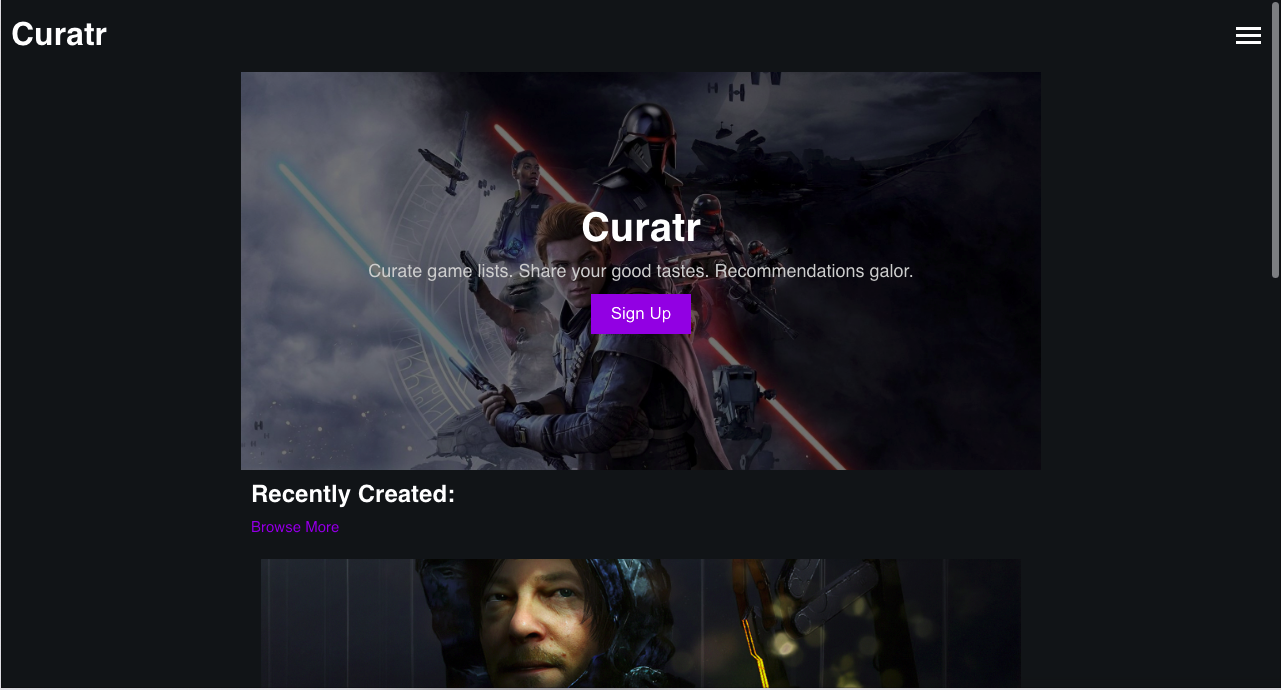
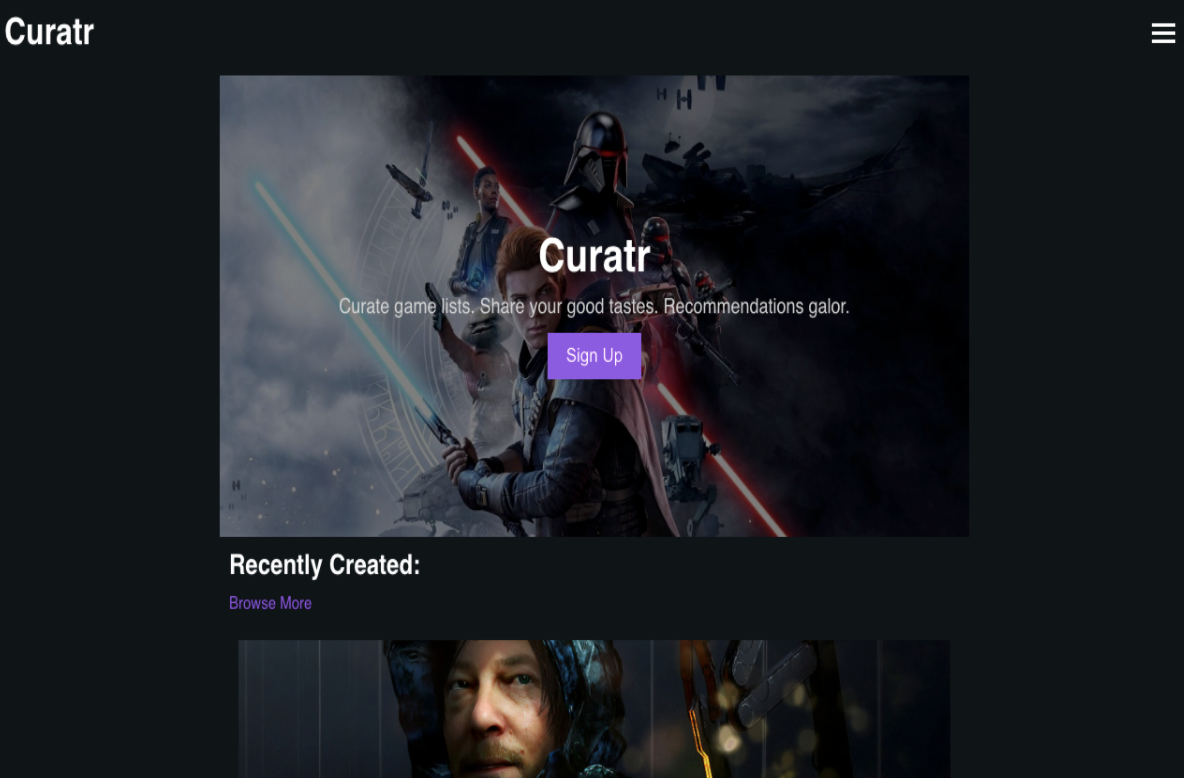
finished contact and music component

diff --git a/src/Components/Portfolio/Portfolio.js b/src/Components/Portfolio/Portfolio.js
@@ -1,13 +1,20 @@
 import React from 'react';
+import { Link } from 'react-router-dom';
 import './Portfolio.css'
-import spaceman from '../../images/Spaceman.png'
+import spaceman from '../../images/Spaceman-1.png'
 import curatr from '../../images/Curatr-1.png'
 
 const Portfolio = () => {
     return (
 			<div>
 				<h2 className='portfolio-title'>PROJECT #1</h2>
-				<img className='spaceman-image' src={spaceman}></img>
+				<img
+					className='spaceman-image'
+					// style={{
+					// 	border: '50px solid black',
+					// 	borderWidth: '30px',
+					// }}
+					src={spaceman}></img>
 				<h4 className='project-title-1'>"S P A C E M A N"</h4>
 				<p className='project-description'>
 					Complex game using Vanilla Javascript, CSS & HTML
@@ -27,28 +34,43 @@ const Portfolio = () => {
 					CODE
 				</a>
 				<h2 className='portfolio-title'>PROJECT #2</h2>
-				<img className='curatr-image' src={curatr}></img>
+				<img
+					className='curatr-image'
+					src={curatr}
+					style={{
+						border: '50px solid black',
+						borderWidth: '30px',
+					}}></img>
 				<h4 className='project-title-1'>"C U R A T R"</h4>
 				<p className='project-description'>
-					Fullstack MERN react app using mongoDB to build an api
+					Fullstack MERN react app using mongoDB
 				</p>
 				<a
 					className='project-link'
 					href='https://curatrp3ga.herokuapp.com/'
+					target='_blank'
 					style={{ color: 'lightgray', textDecoration: 'none' }}>
 					DEMO
 				</a>
 				<a
 					className='code-link'
 					href='https://github.com/Davinki-Coders/Project-3-fe'
-					style={{ color: 'lightgray', textDecoration: 'none' }}>
-					FE CODE
+					target='_blank'
+					style={{
+						color: 'lightgray',
+						textDecoration: 'none',
+					}}>
+					CODE
 				</a>
 				<a
 					className='code-link'
 					href='https://github.com/Davinki-Coders/Project-3-be'
-					style={{ color: 'lightgray', textDecoration: 'none' }}>
-					BE CODE
+					target='_blank'
+					style={{
+						color: 'lightgray',
+						textDecoration: 'none',
+					}}>
+					CODE
 				</a>
 			</div>
 		);

diff --git a/src/Components/About/About.js b/src/Components/About/About.js
@@ -3,29 +3,18 @@ import './About.css';
 const About = () => {
     return (
 			<div>
-				<h1 className="about-text">ABOUT ME</h1>
-				{/* <p>
-					Rashawn Isaac Gordon aka Rigga Mortis or Rig is a software engineer and musician, pursuing his passion for
-					technology and creativity, solving problems and bringing joy to others through
-					building purposeful and meaningful creations. He achieves his goals by
-					leveraging his decision making and communication combined with a strong
-					desire to experience those breakthrough moments.
+				<h2 className='about-text'>ABOUT ME</h2>
+
+				<p className='about-paragraph'>
+					{' '}
+					I'm a fullstack developer and music artist, based in New York. My
+					artist name is Rigga Mortis, born as Rashawn Isaac Gordon.{' '}
 				</p>
-				<p>'On my spare time, I enjoy music, programming, sketching, reading, gaming, travel,
-				and sports. These interests have assisted me in harnesting the values
-				and skills necessary to thrive within a team and social environment.' - Rashawn</p> */}
-				{/* <p className="about-paragraph">Lorem ipsum dolor sit amet, consectetur adipiscing elit, sed do eiusmod
-				tempor incididunt ut labore et dolore magna aliqua. Fringilla ut morbi
-				tincidunt augue interdum. Scelerisque varius morbi enim nunc faucibus a
-				pellentesque sit. Morbi tempus iaculis urna id. Fermentum et
-				sollicitudin ac orci phasellus egestas tellus. In fermentum et
-				sollicitudin ac orci phasellus egestas tellus. Ipsum nunc aliquet
-				bibendum enim facilisis gravida. Eleifend mi in nulla posuere
-				sollicitudin. Quis risus sed vulputate odio.</p> */}
-                
-                <p className="about-paragraph"> I'm a fullstack developer and music artist, based in New York. My artist name is Rigga Mortis, born as Rashawn Isaac Gordon. </p>
-                
-				{/* <h2 className="about-text">SKILLS</h2> */}
+
+				<p className='about-paragraph'>
+					{' '}
+					SOFAS RECORDS is my media company.{' '}
+				</p>
 			</div>
 		);
 };

diff --git a/src/Components/Header/Header.js b/src/Components/Header/Header.js
@@ -2,16 +2,17 @@ import React from 'react';
 import { Link } from 'react-router-dom';
 import './Header.css';
 import logo from '../../images/Rigga-Mortis-Logo.png';
+import logo2 from '../../images/SOFAS-LOGO-1.png';
 
 
 
 const Header = () => {
     return (
 			<div>
-				<img className='logo' src={logo}></img>
+				<img className='logo2' src={logo2}></img>
 				<ul className='header-items'>
 					<li>
-						<Link to='/' style={{ color: 'lightgray', textDecoration: 'none' }}>
+						<Link to='/' style={{ color: '#ff6542', textDecoration: 'none' }}>
 							HOME
 						</Link>
 					</li>
@@ -25,21 +26,21 @@ const Header = () => {
 					<li>
 						<Link
 							to='/portfolio'
-							style={{ color: 'lightgray', textDecoration: 'none' }}>
+							style={{ color: '#ff6542', textDecoration: 'none' }}>
 							PORTFOLIO
 						</Link>
 					</li>
 					<li>
 						<Link
 							to='/music'
-							style={{ color: 'lightgray', textDecoration: 'none' }}>
+							style={{ color: '#ff6542', textDecoration: 'none' }}>
 							MUSIC
 						</Link>
 					</li>
 					<li>
 						<Link
 							to='/contact'
-							style={{ color: 'lightgray', textDecoration: 'none' }}>
+							style={{ color: '#ff6542', textDecoration: 'none' }}>
 							CONTACT
 						</Link>
 					</li>

diff --git a/src/Components/Contact/Contact.js b/src/Components/Contact/Contact.js
@@ -1,13 +1,41 @@
 import React from 'react';
+import './Contact.css';
+import { AiFillGithub, AiFillLinkedin, AiOutlineFile } from 'react-icons/ai';
+
 
 const Contact = () => {
     return (
-        <div>
-           LinkedIn
-           Github
-           Resume links go here
-        </div>
-    );
+			<div className='contact-links'>
+				<h2 className='contact-title'>C O N T A C T</h2>
+				<p className='contact-paragraph'>
+					Looking forward to speaking with you
+				</p>
+				<AiFillLinkedin className='linkedin-logo' />
+				<a
+					className='linkedin-link'
+					href='https://www.linkedin.com/in/rashawn-isaac-gordon/'
+					style={{ color: 'black' }}
+					target='_blank'>
+					LINKEDIN
+				</a>
+				<AiFillGithub className='github-logo' />
+				<a
+					className='github-link'
+					href='https://github.com/RGordon93'
+					style={{ color: 'black' }}
+					target='_blank'>
+					GITHUB
+				</a>
+				<AiOutlineFile className='resume-logo' />
+				<a
+					className='resume-link'
+					href=''
+					style={{ color: 'black' }}
+					target='_blank'>
+					RESUME
+				</a>
+			</div>
+		);
 };
 
 export default Contact;

diff --git a/src/App.js b/src/App.js
@@ -3,6 +3,7 @@ import React from 'react';
 import Contact from './Components/Contact/Contact';
 import About from './Components/About/About';
 import Home from './Components/Home/Home';
+import Music from './Components/Music/Music';
 import Header from './Components/Header/Header'
 import { BrowserRouter as Router, Route, Link } from 'react-router-dom'
 import Portfolio from './Components/Portfolio/Portfolio'
@@ -15,6 +16,7 @@ function App() {
 				<Route path='/' exact component={Home} />
 				<Route path='/about' exact component={About} />
 				<Route path='/portfolio' exact component={Portfolio} />
+				<Route path='/music' exact component={Music} />
 				<Route path='/contact' exact component={Contact} />
 			</div>
 		</Router>

diff --git a/src/Components/Contact/Contact.css b/src/Components/Contact/Contact.css
@@ -1,0 +1,30 @@
+@import url('https://fonts.googleapis.com/css2?family=Roboto:wght@700&display=swap');
+
+@import url('https://fonts.googleapis.com/css2?family=Permanent+Marker&display=swap');
+
+.contact-links {
+    text-align: center;
+	display: block;
+	justify-content: center;
+	align-items: center;
+    margin: auto;
+    padding-top: 100px;
+}
+.github-logo {
+    height: 75px;
+    width: 75px;
+}
+.linkedin-logo {
+    height: 75px;
+    width: 75px;
+}
+.resume-logo {
+    height: 75px;
+    width: 75px;
+}
+.contact-title, .contact-paragraph {
+    font-family: 'Roboto';
+}
+.github-link, .linkedin-link, .resume-link {
+ font-family: 'Permanent Marker';
+}

diff --git a/src/Components/Header/Header.css b/src/Components/Header/Header.css
@@ -6,6 +6,8 @@
 
 @import url('https://fonts.googleapis.com/css2?family=Roboto:wght@700&display=swap');
 
+@import url('https://fonts.googleapis.com/css2?family=Permanent+Marker&display=swap');
+
 
 
 .header-items {
@@ -22,12 +24,21 @@
   margin-left: 10px;
    /* font-family: 'UnifrakturCook'; */
    /* font-family: 'Sedgwick Ave Display'; */
-   font-family: 'Roboto';
+   font-family: 'Permanent Marker';
+   /* font-family: 'Roboto'; */
    font-weight: bold;
 }
 .logo {
     width: 175px;
     height: 100px;
-    /* padding-top: -200px; */
+   
+
+}
+.logo2 {
+    width: 300px;
+    height: 100px;
+    padding-top: 10px;
+    padding-bottom: 12px;
+   
 
 }

diff --git a/src/Components/NukaCarousel/NukaCarousel.js b/src/Components/NukaCarousel/NukaCarousel.js
@@ -12,9 +12,22 @@ const NukaCarousel = () => {
     return (
 			<div>
 				<Carousel
+					className='carousel-images'
+					style={{
+						border: '50px solid black',
+						// borderRadius: '25px',
+						borderWidth: '30px',
+					}}
+					easing='easeInOutElastic'
+					edgeEasing='easeOutCirc'
+					pauseOnHover={false}
+					swiping={true}
+					cellSpacing={20}
+					width={750}
+					height={500}
 					withoutControls={true}
 					autoplay={true}
-					autoplayInterval={3000}>
+					autoplayInterval={5000}>
 					<img className='photo' src={image6}></img>
 					<img className='photo' src={image2}></img>
 					<img className='photo' src={image3}></img>

diff --git a/src/Components/Music/Music.js b/src/Components/Music/Music.js
@@ -1,0 +1,23 @@
+import React from 'react';
+import ReactPlayer from 'react-player';
+import './Music.css';
+
+const Music = () => {
+    return (
+			<div>
+				<h2 className='video-title'>VIDEOS</h2>
+				<ReactPlayer
+					className='epidemic-video'
+					style={{
+						border: '50px solid black',
+						borderWidth: '30px',
+					}}
+					url='https://youtu.be/NJIgs6ZFN4s'
+				/>
+                <h3 className='epidemic-title'>"E P I D E M I C"</h3>
+                <p className='epidemic-description'>End Police Brutality, environmental racism and systemic racism</p>
+			</div>
+		);
+};
+
+export default Music;

diff --git a/src/Components/Home/Home.js b/src/Components/Home/Home.js
@@ -2,15 +2,20 @@ import React from 'react';
 import NukaCarousel from '../../Components/NukaCarousel/NukaCarousel'; 
 import About from '../../Components/About/About'; 
 import Portfolio from '../../Components/Portfolio/Portfolio';
+import Contact from '../../Components/Contact/Contact';
+import Music from '../../Components/Music/Music';
 import './Home.css';
 
 
 const Home = () => {
     return (
 			<>
-				<NukaCarousel className='photo-box' />
+				<NukaCarousel
+				/>
 				<About />
 				<Portfolio />
+                <Music />
+				<Contact />
 			</>
 		);
 };

diff --git a/src/Components/About/About.css b/src/Components/About/About.css
@@ -4,6 +4,8 @@
 
 @import url('https://fonts.googleapis.com/css2?family=Roboto:wght@100&display=swap');
 
+@import url('https://fonts.googleapis.com/css2?family=Permanent+Marker&display=swap');
+
 .about-paragraph {
     text-align: center;
     font-family: 'Roboto'
@@ -14,4 +16,6 @@
     text-align: center;
     /* font-family: 'Sedgwick Ave Display'; */
      font-family: 'Roboto';
+     /* font-family: 'Permanent Marker'; */
+     
 }

diff --git a/src/Components/Music/Music.css b/src/Components/Music/Music.css
@@ -1,0 +1,18 @@
+@import url('https://fonts.googleapis.com/css2?family=Roboto:wght@700&display=swap');
+
+.video-title {
+    text-align: center;
+    font-family: 'Roboto';
+    padding-top: 75px;
+}
+.epidemic-video {
+    text-align: center;
+	display: block;
+	justify-content: center;
+	align-items: center;
+	margin: auto;
+}
+.epidemic-title, .epidemic-description {
+    text-align: center;
+    font-family: 'Roboto';
+}
